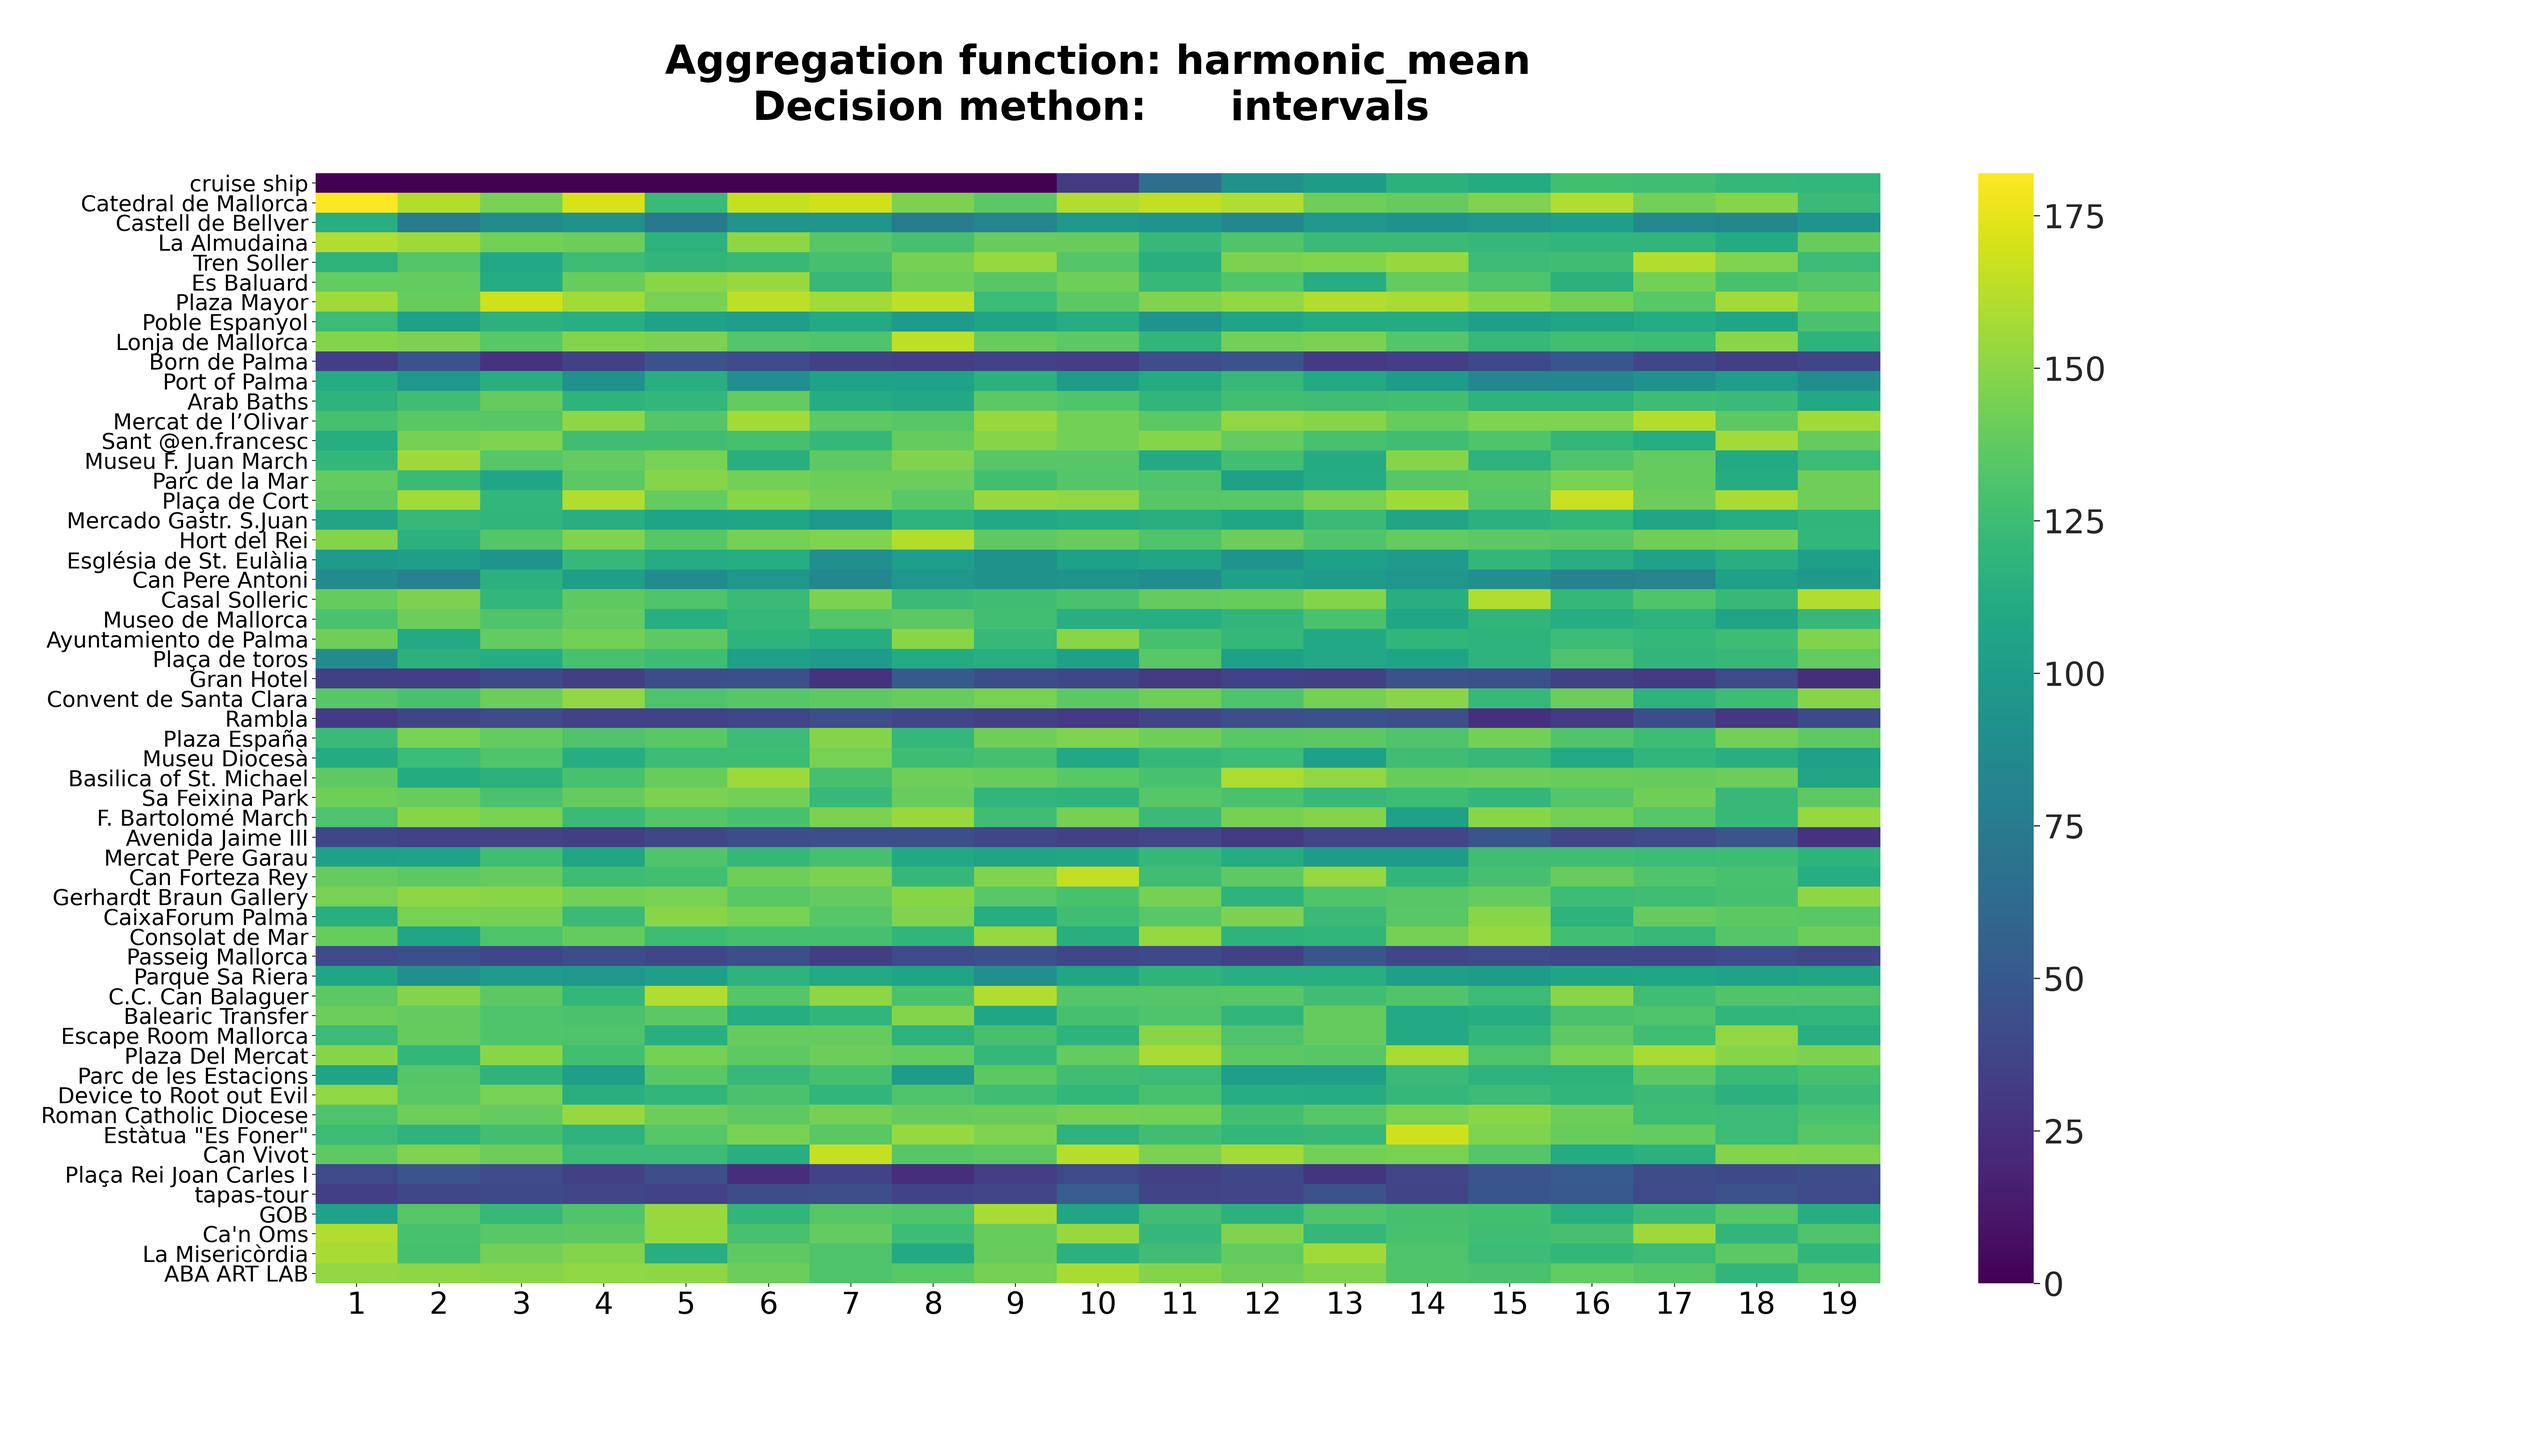
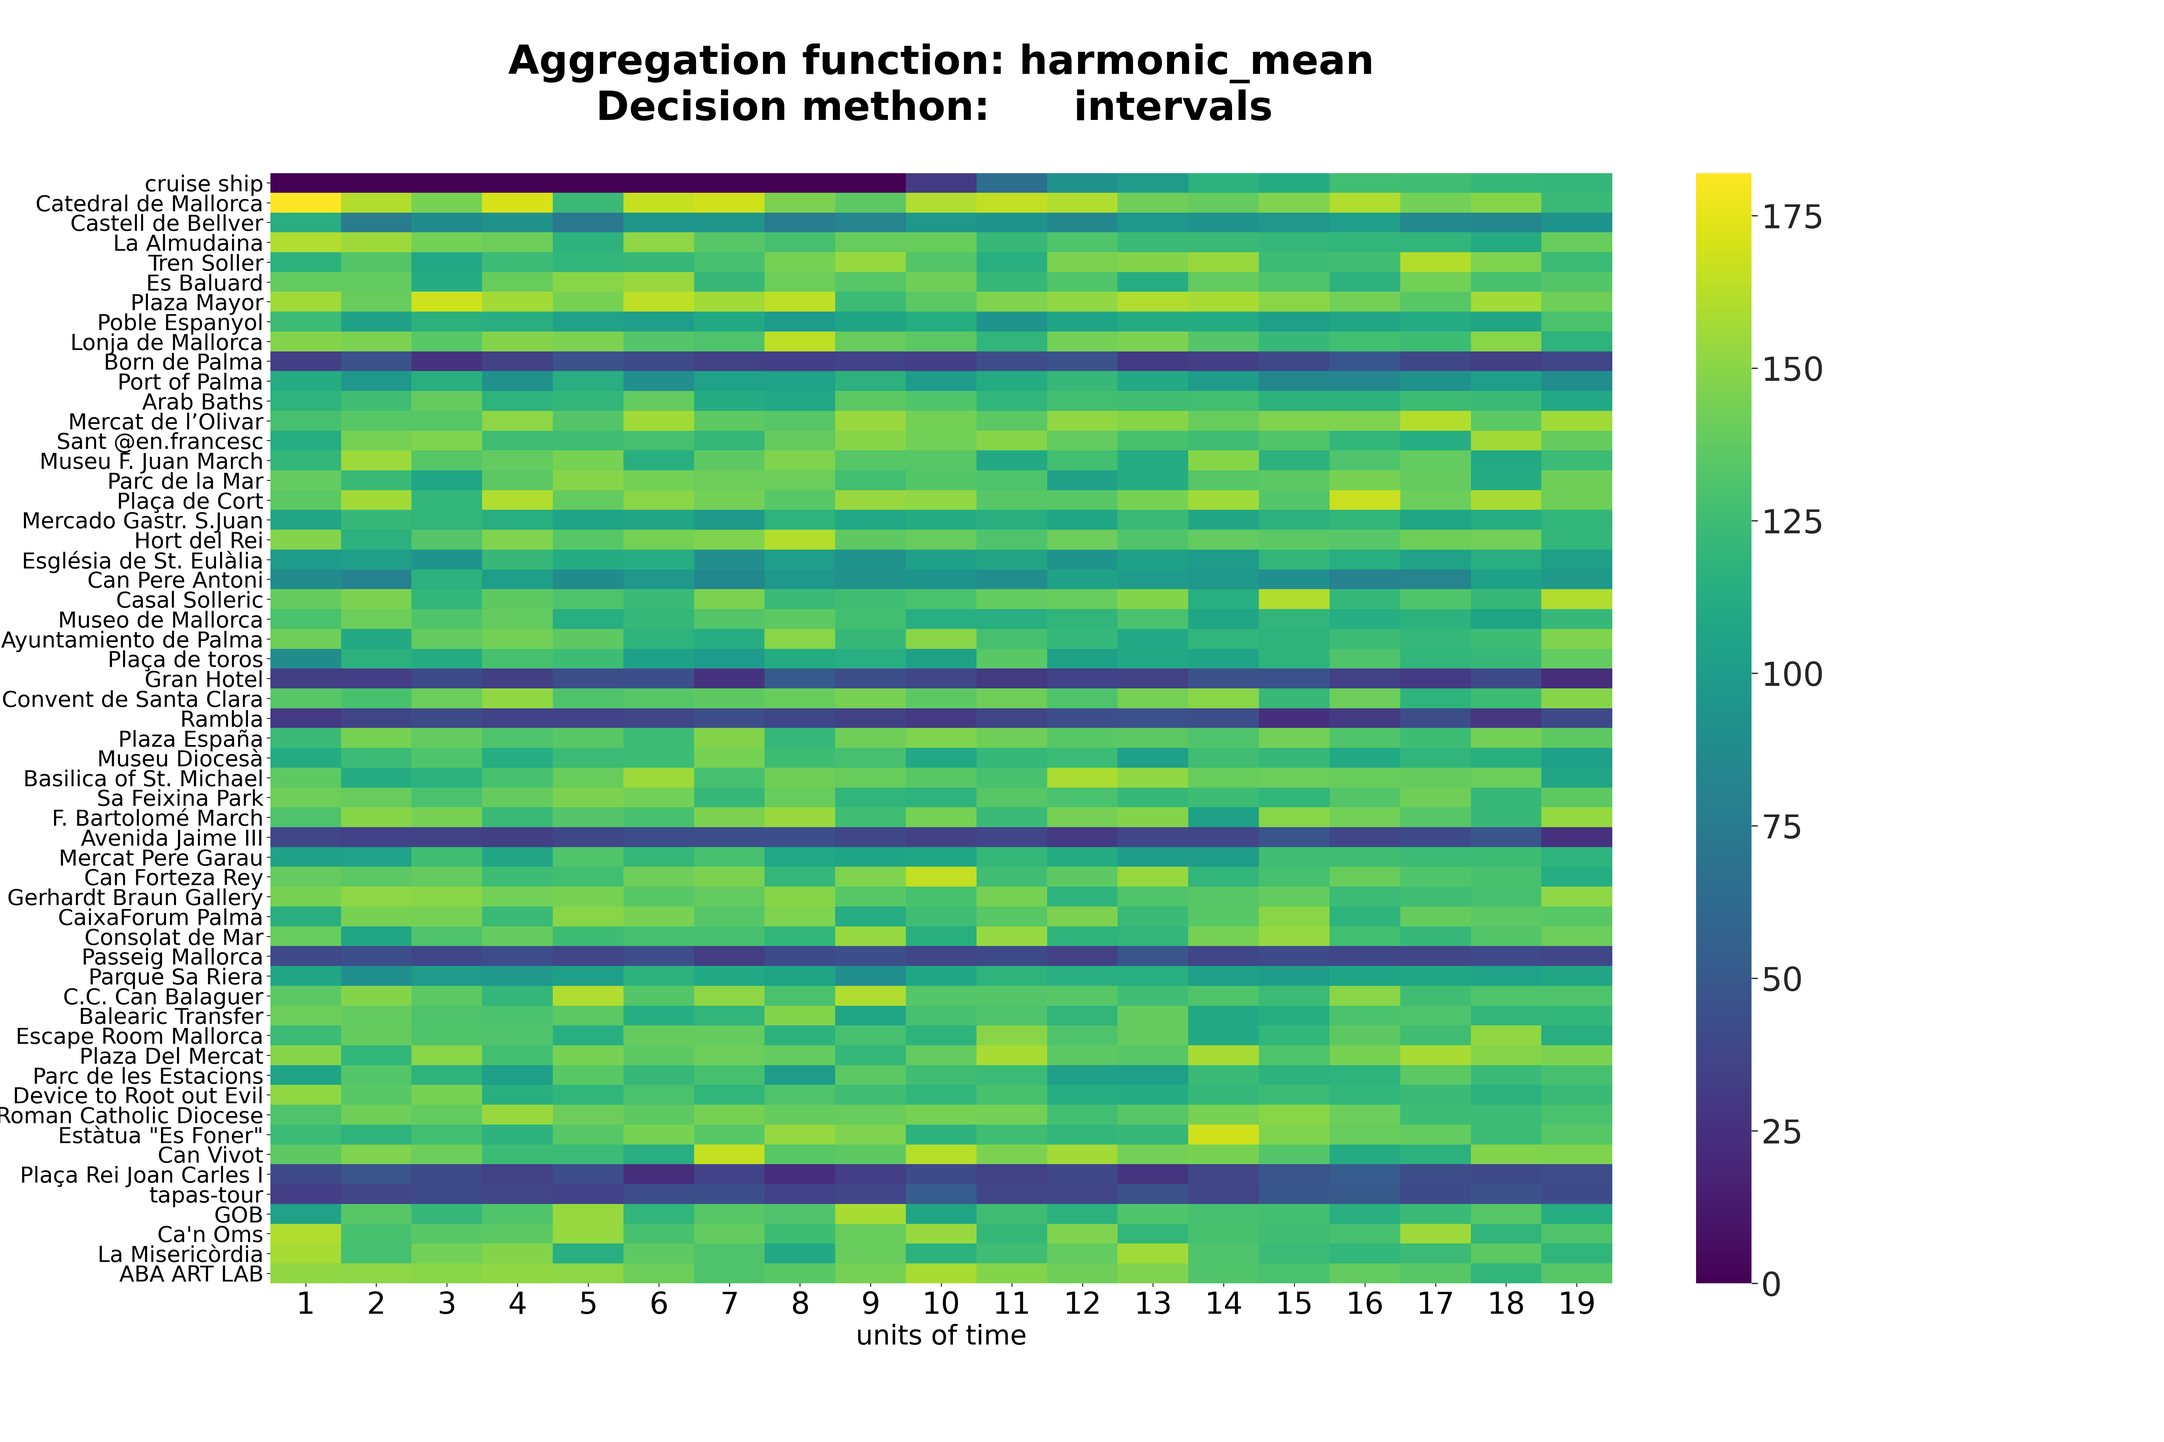
add x label

diff --git a/simulation_results.py b/simulation_results.py
@@ -46,7 +46,7 @@ if __name__ == "__main__":
     data = results.T
     data = data.drop(0, 1)
 
-    ax = plt.subplots(figsize=(35, 40))
+    ax = plt.subplots(figsize=(30, 20))
     plt.title(f'Aggregation function: {af}\n'
             + f'Decision methon:      {dm} \n',
             fontsize=40,
@@ -55,6 +55,7 @@ if __name__ == "__main__":
     sns.set(font_scale=3)
     res = sns.heatmap(data, cmap="viridis")
    
+    plt.xlabel('units of time', fontsize="27")
     res.set_xticklabels(res.get_xmajorticklabels(), fontsize = 30)
     res.set_yticklabels(res.get_ymajorticklabels(), fontsize = 22) 
 
